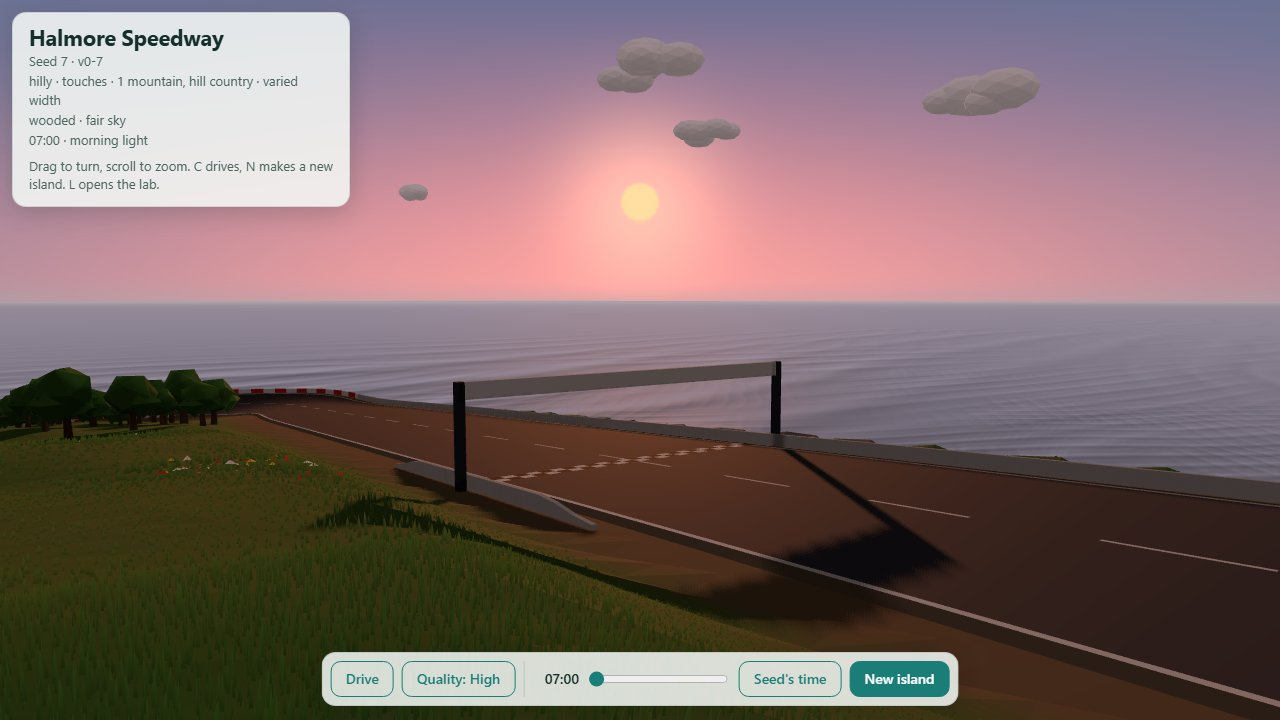
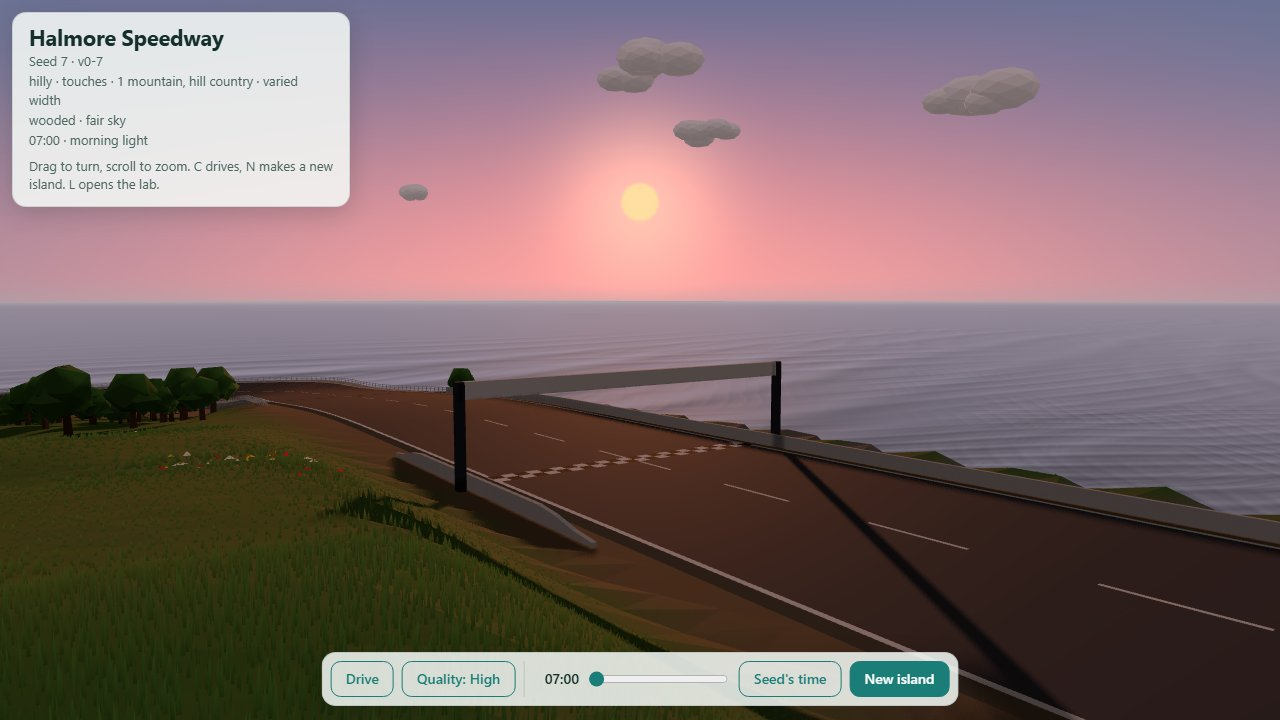
M6.1e: bridges driven over at top speed; look=bridge; the visual bar's pictures again
A test drives four bridges (seed 19's inlet, seed 9's wooden river bridge, seed 1's hill river
and seed 7's long lap bridge) at up to 53 m/s: all four wheels on the road at every step from
30 m before to 30 m after, and the body's up-and-down jolt under 1 g. look=bridge opens on the
crossing's bridge, or the lap's longest. The browser suite's close views take it too. Every
visual bar picture taken again, with a crossing of each kind added and a Crossings row; seed 7's
drive pictures kept, since its new lap's slide leaves the road. Bridge views of seeds 1 to 20
looked at. That ends M6.1.

diff --git a/src/sim/bridgeDrive.test.ts b/src/sim/bridgeDrive.test.ts
@@ -1,0 +1,103 @@
+import { beforeAll, describe, expect, it } from 'vitest';
+import { config } from '../config';
+import { generateWorld } from '../gen';
+import type { BridgeSpan, WorldResult } from '../gen/types';
+import { BRAKE_SHARE, cornerLimit, reachFor, stickToward } from './bot/lineDriver';
+import { makeInput } from './input';
+import { loadRapier, type Rapier } from './physics/rapier';
+import { createSimOn } from './sim';
+import { poseBehind } from './start';
+
+/**
+ * M6.1e (the milestone's "done when"): a car driven over a bridge at top speed keeps four wheels down and meets no
+ * bump at either end. Seed 19's concrete bridge over its inlet, seed 9's wooden one over its river, seed 1's over its
+ * hill river, each on straight or gently curved road, and seed 7's long bridge of the lap's own (M6.1a).
+ */
+const BRIDGES: { seed: number; what: string; least: number }[] = [
+  { seed: 19, what: 'the inlet', least: 0.95 },
+  { seed: 9, what: 'the river, wooden', least: 0.95 },
+  { seed: 1, what: 'the hill river', least: 0.95 },
+  { seed: 7, what: 'the lap’s long bridge', least: 0.9 },
+];
+/** Metres either side of a bridge watched too: its ends and the road leading on and off. */
+const AROUND = 30;
+/** The car starts this far back, enough to reach top speed where the road allows. */
+const RUN_UP = 700;
+
+let rapier: Rapier;
+const worlds = new Map<number, WorldResult>();
+beforeAll(async () => {
+  rapier = await loadRapier();
+  for (const { seed } of BRIDGES) worlds.set(seed, generateWorld(seed, config));
+}, 120_000);
+
+/** The bridge to drive over: the crossing's, or with none the lap's longest. */
+function bridgeOf(world: WorldResult): BridgeSpan {
+  const n = world.track.candidates[world.track.winnerIndex]!.line.count;
+  const { spans } = world.road.bridges;
+  const crossing = world.crossing;
+  if (crossing) return spans.find((s) => (crossing.sample - s.startIndex + n) % n < s.sampleCount)!;
+  return spans.reduce((a, b) => (b.sampleCount > a.sampleCount ? b : a));
+}
+
+interface Crossed {
+  /** Speed as the car reached the watched stretch, in metres per second. */
+  entry: number;
+  /** Steps on the watched stretch, and those with a wheel off the road. */
+  steps: number;
+  lifted: number;
+  /** The largest change of the body's upward speed in one step, as an acceleration, in metres per second squared. */
+  jolt: number;
+}
+
+/**
+ * Drives along the centre line from `RUN_UP` metres before a bridge, the throttle down and braking only for corners
+ * it could not take (`cornerLimit`), and watches it from `AROUND` metres before the bridge to as far after.
+ */
+function driveOver(world: WorldResult, span: BridgeSpan): Crossed {
+  const car = config.car;
+  const reach = reachFor(car, 120);
+  const { line } = world.track.candidates[world.track.winnerIndex]!;
+  const n = line.count;
+  const around = Math.round(AROUND / line.spacing);
+  const from = (span.startIndex - around + n) % n;
+  const length = span.sampleCount - 1 + 2 * around;
+  const watched = (i: number): boolean => (i - from + n) % n <= length;
+  const start = (span.startIndex - Math.round(RUN_UP / line.spacing) + 10 * n) % n;
+  const sim = createSimOn(rapier, { kind: 'island', world }, config, poseBehind(world, config, start, 0));
+  const result: Crossed = { entry: 0, steps: 0, lifted: 0, jolt: 0 };
+  let upward = 0;
+  for (let step = 0; step < 60 * config.sim.stepsPerSecond; step++) {
+    const state = sim.state();
+    const near = state.progress!.near;
+    const speed = Math.hypot(state.velocity.x, state.velocity.y, state.velocity.z);
+    const limit = cornerLimit(line, near, reach, car);
+    const ahead = (near + Math.max(8, Math.round((speed * 0.5) / line.spacing))) % n;
+    sim.step(makeInput({ throttle: speed < limit ? 1 : 0, brake: speed > limit + 1 ? BRAKE_SHARE : 0, steer: stickToward(state, { x: line.x[ahead]!, z: line.z[ahead]! }, car) }));
+    const after = sim.state();
+    const jolt = Math.abs(after.velocity.y - upward) * config.sim.stepsPerSecond;
+    upward = after.velocity.y;
+    if (watched(after.progress!.near)) {
+      if (result.steps === 0) result.entry = speed;
+      result.steps++;
+      if (!after.wheels.every((wheel) => wheel.touching)) result.lifted++;
+      result.jolt = Math.max(result.jolt, jolt);
+    } else if (result.steps > 0) break;
+  }
+  sim.free();
+  return result;
+}
+
+describe('driving over a bridge at top speed (M6.1e)', () => {
+  it.each(BRIDGES)('seed $seed, over $what: at top speed, four wheels down from 30 m before to 30 m after, and no bump at either end', ({ seed, least }) => {
+    const world = worlds.get(seed)!;
+    const span = bridgeOf(world);
+    const crossed = driveOver(world, span);
+    // Over the whole bridge and its ends: at a step a second, at least its length.
+    expect(crossed.steps, `seed ${seed}: steps on the bridge`).toBeGreaterThan(((span.sampleCount - 1) * 2) / config.car.engine.topSpeed * config.sim.stepsPerSecond);
+    expect(crossed.entry, `seed ${seed}: speed onto the bridge`).toBeGreaterThanOrEqual(least * config.car.engine.topSpeed);
+    expect(crossed.lifted, `seed ${seed}: steps with a wheel off the road`).toBe(0);
+    // No more than 1 g up or down at any step: the road's own crests and dips stay well under it.
+    expect(crossed.jolt, `seed ${seed}: the largest jolt`).toBeLessThan(9.81);
+  });
+});

diff --git a/src/camera/spots.test.ts b/src/camera/spots.test.ts
@@ -4,7 +4,7 @@ import { config } from '../config';
 import { analyseSections } from '../gen/track/analysis';
 import { stadiumLine } from '../testing/trackFixtures';
 import { orbitEye, type Orbit } from './orbit';
-import { lookAtCar, lookAtPoint, lookAtRoad, lookAtSpot, lookAtTrack, ROAD_SPOT_NAMES, SPOT_NAMES, TRACK_SPOT_NAMES } from './spots';
+import { lookAtBridge, lookAtCar, lookAtPoint, lookAtRoad, lookAtSpot, lookAtTrack, ROAD_SPOT_NAMES, SPOT_NAMES, TRACK_SPOT_NAMES } from './spots';
 
 const spot = (x: number, z: number, sample = 0) => ({ x, z, value: 1, sample });
 const report: FitReport = {
@@ -244,5 +244,39 @@ describe('lookAtCar', () => {
     expect(back).toBeGreaterThan(0);
     expect(Math.abs(side)).toBeGreaterThan(1);
     expect(Math.atan2(Math.abs(side), back)).toBeCloseTo(view.side, 6);
+  });
+});
+
+describe('lookAtBridge (look=bridge, M6.1e)', () => {
+  const line = stadiumLine(400, 20);
+  const n = line.count;
+  const spans = [
+    { startIndex: 10, sampleCount: 30 },
+    { startIndex: 200, sampleCount: 60 },
+  ];
+  const middleOf = (span: { startIndex: number; sampleCount: number }) => (span.startIndex + Math.floor(span.sampleCount / 2)) % n;
+
+  it('aims at the middle of the crossing’s bridge, at the ground there', () => {
+    const orbit = lookAtBridge('bridge', line, spans, 25, heightAt)!;
+    expect(orbit.targetX).toBeCloseTo(line.x[middleOf(spans[0]!)]!, 6);
+    expect(orbit.targetZ).toBeCloseTo(line.z[middleOf(spans[0]!)]!, 6);
+    expect(orbit.targetY).toBe(12);
+  });
+
+  it('aims at the lap’s longest bridge when there is no crossing', () => {
+    const orbit = lookAtBridge('bridge', line, spans, null, heightAt)!;
+    expect(orbit.targetX).toBeCloseTo(line.x[middleOf(spans[1]!)]!, 6);
+    expect(orbit.targetZ).toBeCloseTo(line.z[middleOf(spans[1]!)]!, 6);
+  });
+
+  it('finds a bridge across the start of the lap', () => {
+    const across = [{ startIndex: n - 10, sampleCount: 30 }];
+    const orbit = lookAtBridge('bridge', line, across, 5, heightAt)!;
+    expect(orbit.targetX).toBeCloseTo(line.x[middleOf(across[0]!)]!, 6);
+  });
+
+  it('has nothing to look at with no bridge, or for another name', () => {
+    expect(lookAtBridge('bridge', line, [], null, heightAt)).toBeNull();
+    expect(lookAtBridge('hairpin', line, spans, 25, heightAt)).toBeNull();
   });
 });

diff --git a/src/app/worldPage.ts b/src/app/worldPage.ts
@@ -3,7 +3,7 @@ import { chaseStart, type ChaseView } from '../camera/chase';
 import { createFlyPath, type FlyPath } from '../camera/flyAlong';
 import { dragOrbit, orbitEye, zoomOrbit, type Orbit } from '../camera/orbit';
 import { clearOrbit, titleOrbit } from '../camera/orbitFit';
-import { lookAtCar, lookAtPoint, lookAtRoad, lookAtSpot, lookAtTrack } from '../camera/spots';
+import { lookAtBridge, lookAtCar, lookAtPoint, lookAtRoad, lookAtSpot, lookAtTrack } from '../camera/spots';
 import { config, GENERATOR_VERSION } from '../config';
 import { formatSeedCode, MAX_SEED, parseSeedInput, seedInputProblem } from '../core/seedCode';
 import type { CloudCover, FitReport, WoodsKind, WorldResult } from '../gen';
@@ -212,7 +212,7 @@ const NEXT_VIEW: Record<CameraMode, string> = { chase: 'Drive', fly: 'Fly the la
  * Address options: `seed=42`; `cam=fly` to open flying the lap and `cam=orbit` to open circling (the car stays
  * where it is until the driving view is back); `lap=0.5` to open flying, half way round the lap; `still=1` to open
  * paused, with the car held at its start; `look=cut` (or fill, bank,
- * close, water, hairpin, start, summit, climb, sun, car) or `at=x,z` for a close view of one place;
+ * close, water, hairpin, start, summit, climb, sun, car, or bridge: the crossing's bridge or the lap's longest) or `at=x,z` for a close view of one place;
  * `time=17:45` to open at that time of day instead of the seed's own (held to daylight);
  * `decor=off` to leave out the trees, rocks and clouds; `grass=off` to leave out the grass blades;
  * `water=off` to leave out the surface of the sea; `fps=1` to open with the frame times showing (the F key shows and hides them);
@@ -1034,6 +1034,7 @@ export function mountWorldPage(root: HTMLElement): ViewHandle {
         (opening
           ? (lookAtSpot(look, result.report, groundAt) ??
             lookAtTrack(look, winner.line, winner.sections, groundAt) ??
+            lookAtBridge(look, winner.line, result.road.bridges.spans, result.crossing?.sample ?? null, groundAt) ??
             lookAtRoad(look, winner.line, winner.profile.height, result.mountains, groundAt) ??
             (look === 'sun' ? lookAtSun(winner.line.x[0]!, winner.line.z[0]!, winner.profile.height[0]!) : null) ??
             (look === 'car' ? lookAtCar(startPose(result, config)) : null))

diff --git a/src/camera/spots.ts b/src/camera/spots.ts
@@ -1,5 +1,5 @@
 import { config } from '../config';
-import type { CenterLine, FitReport, FitSpot, MountainSummit, Section } from '../gen/types';
+import type { BridgeSpan, CenterLine, FitReport, FitSpot, MountainSummit, Section } from '../gen/types';
 import { orbitEye, type Orbit } from './orbit';
 import { rotate, type Quat, type Vec3 } from '../sim/quat';
 
@@ -56,6 +56,26 @@ export function lookAtTrack(
   }
   if (!tightest) return null;
   const middle = (tightest.startIndex + Math.floor(tightest.sampleCount / 2)) % line.count;
+  return closeView(line.x[middle]!, line.z[middle]!, heightAt, view);
+}
+
+/**
+ * A close camera at a bridge (`look=bridge`, M6.1e): the middle of the crossing's bridge, the one over the sample
+ * `crossing`, or with no crossing the lap's longest. Returns null for any other name, or a lap with no bridge.
+ */
+export function lookAtBridge(
+  name: string,
+  line: CenterLine,
+  spans: readonly BridgeSpan[],
+  crossing: number | null,
+  heightAt: (x: number, z: number) => number,
+  view = config.camera.spot,
+): Orbit | null {
+  if (name !== 'bridge' || spans.length === 0) return null;
+  const n = line.count;
+  const over = crossing === null ? undefined : spans.find((span) => (crossing - span.startIndex + n) % n < span.sampleCount);
+  const span = over ?? spans.reduce((a, b) => (b.sampleCount > a.sampleCount ? b : a));
+  const middle = (span.startIndex + Math.floor(span.sampleCount / 2)) % n;
   return closeView(line.x[middle]!, line.z[middle]!, heightAt, view);
 }
 

diff --git a/e2e/world.spec.ts b/e2e/world.spec.ts
@@ -797,7 +797,7 @@ test.describe('3D screenshots', () => {
   const seeds = process.env.SEEDS ? process.env.SEEDS.split(',').map(Number) : [1, 7, 42, 100, 2024, 48213];
 
   /** Which close views to take as well as the overview. Override with LOOKS, for example: $env:LOOKS = "cut,water" */
-  const looks = process.env.LOOKS ? process.env.LOOKS.split(',') : ['cut', 'fill', 'bank', 'water', 'hairpin', 'start', 'summit', 'climb', 'car'];
+  const looks = process.env.LOOKS ? process.env.LOOKS.split(',') : ['cut', 'fill', 'bank', 'water', 'hairpin', 'start', 'summit', 'climb', 'bridge', 'car'];
 
   /** Points of the lap to photograph from the flying camera, as fractions. Override with LAPS, for example: $env:LAPS = "0.1,0.6" */
   const laps = process.env.LAPS ? process.env.LAPS.split(',') : ['0.02', '0.3', '0.55', '0.8'];

diff --git a/docs/STATE.md b/docs/STATE.md
@@ -8,8 +8,8 @@ The step-by-step record of Milestones 1 and 2 (plans, measurements, check-ins an
 
 - **Current milestone:** **Milestone 6, Polish** ([issue #6](https://github.com/TechnologicTEC/Random-Racing/issues/6)), planned and approved by Tane on 2026-11-25 (below). Milestones 1 to 5 are merged and signed off (PR #7, #9, #10, #11, #12; Milestone 5 signed off by Tane 2026-11-25)
 - **Branch:** `milestone-6-polish`, made from `main` at 009260e. `main` is protected by a GitHub ruleset (no force pushes, no deletion, pull request required); one branch and pull request per milestone, merged after Tane signs off
-- **Last finished part:** M6.1d-3, the river high in the hills holds still water (2026-11-26). That ends M6.1d
-- **Next:** **M6.1e**, driven over at top speed (four wheels down, no bump at either end); `look=bridge` opening on the crossing's bridge when there is one; the 20-seed screenshots, three bridges and one crossing of each kind looked at; the visual bar's seed 7 pictures taken again. Then M6.2 (tunnels). M6.1c and M6.1d were planned in plan mode and approved by Tane on 2026-11-26 (below)
+- **Last finished part:** M6.1e, driven over at top speed; `look=bridge`; the pictures (2026-11-26). That ends M6.1, the bridges
+- **Next:** **M6.2a**, tunnel spans, pure: as M6.1a for cuts deeper than `road.maxCut`; rules in `road.tunnels`; measured over seeds 1 to 200 (`docs/plan/M6-polish.md`). Then M6.2b and M6.2c, and check-in 1 with Tane (drive over the bridges and through the tunnels)
 - **Hand-over, 2026-11-16.** Fable 5.2 built Milestones 1 and 2 and Milestone 3 up to 4c, then planned the rest: `docs/PLAN.md` (every part to release, in order, with its rules, starting values and "done when" tests) and `docs/VISUAL_BAR.md`. Opus 5.5 finished the plan's later sections the same day and builds from here
 
 ## Milestone 6: polish (2026-11-25)
@@ -32,7 +32,7 @@ Planned in plan mode and approved by Tane on 2026-11-25 (plan file: `C:\Users\ta
 | M6.1d-1 | **Choosing a crossing**, pure: about half the seeds, one a lap; sites, the kinds that fit, paths; measured over seeds 1 to 200 | **Done** (below) |
 | M6.1d-2 | The crossing carved into the world: inlet, river to the sea and ravine; the bridge found on the carved ground, up to 250 m | **Done** (below) |
 | M6.1d-3 | The river high in the hills: a still surface in a closed gorge, drawn with the sea's shader; the respawn in it | **Done** (below) |
-| M6.1e | Driven over at top speed (four wheels down, no bump); `look=bridge`; pictures looked at (was M6.1c) | To do |
+| M6.1e | Driven over at top speed (four wheels down, no bump); `look=bridge`; pictures looked at (was M6.1c) | **Done** (below) |
 | M6.2a | Tunnel spans, pure: `road.tunnels`, the earthworks rule skips cut in a span; measured over seeds 1 to 200 | To do |
 | M6.2b | The tunnel in the world: the heightfield cut to the road, the lid and portals as their own mesh and colliders; no grass or trees inside | To do |
 | M6.2c | The chase camera under the lid (tested along every tunnel of seeds 1 to 200); dimmer light inside; `look=tunnel`; pictures | To do |
@@ -49,6 +49,8 @@ Planned in plan mode and approved by Tane on 2026-11-25 (plan file: `C:\Users\ta
 | M6.9 | The version 1 table checked by hand; README; the pull request; **Tane's sign-off**; merge; release | To do |
 
 **Tane after M6.1b (2026-11-25):** "This is looking good. But I wonder if the bridge could look a bit different to the other parts of the track. As although it has the supports and elevated track, on top it looks the same and a player wouldn't really notice the difference. Instead could it maybe look like a wooden bridge or a different colour to the track. I also think we should look into using bridges to cross bits of water. For example we can have the track spanning across a ravine or a river and the bridge can connect the track on either side." Recorded with an outline and the questions in `docs/plan/M6-polish.md` ("Tane after M6.1b"); planned properly in plan mode in a fresh session. M6.1b stays as it is meanwhile: the bridges' shape, ground, railings, pillars and colliders are the base both changes build on.
+
+**M6.1e, done 2026-11-26.** **Driven over at top speed** (`src/sim/bridgeDrive.test.ts`, the milestone's "done when"): a test driver keeps the throttle down and brakes only for corners it could not take (`cornerLimit`), steering along the centre line, from 700 m before a bridge; from 30 m before it to 30 m after it, it watches every step. On seed 19's concrete bridge over its inlet, seed 9's wooden one over its river and seed 1's over its hill river it arrives at 52 to 53 m/s (top speed is 53), and on seed 7's 186 m bridge of the lap's own at 49.8 m/s; on all four **every wheel touches the road at every step**, and the body's up-and-down acceleration stays **under 1 g** at every step (at most 8.6 m/s² on the bridges, against up to 15.7 m/s² on the plain road before them, measured over ten bridges of seeds 1, 6, 7, 9, 11, 14, 19 and 33; the largest jolts come on the road just before or after a bridge, not at its ends). The test guards what the bridges already did, so it passed from the start; to see it can fail, a throwaway run raised the road 15 cm over the first 4 m of seed 19's bridge: the body jolted at 27.5 m/s² and a wheel left the road on 21 steps. (A deck box poking 10 cm above the road did not, since the wheels feel only the road and the body rides higher.) **`look=bridge`** (`lookAtBridge`, `camera/spots.ts`): a close view at the middle of the crossing's bridge, or of the lap's longest with no crossing; none with no bridge (4 tests in `spots.test.ts`, seen failing first). The browser suite's close views now take `bridge` too. **Pictures:** the bridge views of seeds 1 to 20 (with the island from above and flying at 0.3 of the lap, in two batches of 10, all 126 passing) looked at in the session's scratchpad (`seeds-1-20`, contact sheets `sheet-bridge-1-10.png` and `sheet-bridge-11-20.png`): every seed with a bridge opens on it (seed 1's hill river, the ravines of seeds 3, 6, 8, 10, 11, 16 and 17, seed 9's wooden river bridge, seed 19's inlet, seed 12's wooden bridge on a corner, seeds 7, 13 and 14's of the lap's own); seeds with none (2, 4, 5, 15, 18 and 20) open on the start line, as for any close view with nothing to show. **The visual bar:** all 17 pictures taken again (`node scripts/visual-bar-pictures.mjs`), with four new ones of a crossing of each kind at its bridge (`crossing-inlet.jpg` seed 19, `crossing-river.jpg` seed 9, `crossing-ravine.jpg` seed 17, `crossing-hill-river.jpg` seed 42) and a Crossings row in `docs/VISUAL_BAR.md`. Seed 7's lap is M6.1a's: `road-morning-shadows.jpg` is now a walled corner with a cutting in the morning light, with no long tree shadows across the road, and `road-straight-meadow.jpg` (seed 8) a road by the sea; both still show what their rows use them for. **`drive-slide.jpg` and `drive-boost.jpg` were kept as accepted on 2026-11-23**: on seed 7's new lap the browser suite's slide carries the car off the road into the trees, so it is no reference. New places for these three are Tane's call (below, known issues). 2,905 unit tests pass; type check clean; 442 browser tests pass (136 skipped, as usual; 6 more than before, the bridge close views) in 38 minutes, with no failure.
 
 **M6.1d-3, done 2026-11-26.** **A hill river holds still water** in its gorge, at the level `chooseCrossing` gave it (1.5 to 3 m over its floor, at least 3 m under the ground all round). `buildStillWater` (`src/gen/world/stillWater.ts`) gives `WorldResult.stillWater` (null on every other world): its `level`; `wet`, how far the water reaches either side of each point of the crossing's path (across its floor and up its banks at `bankSlope` to the level; 0 where the floor has risen above it); and its `mesh`, flat at the level over every cell of the grid with a corner within a cell of the water, so it runs on under the banks and is hidden there. `inStillWater(water, path, x, z, margin)` says whether a point is in it: within the reach of the path between each point and the next, and round its ends. In `hashWorld` only when there is one. **Drawn** with the sea's shader (`createWater` takes a shape and a level, `StillShape`): its depth is now the surface's level minus the ground's height (`depthAt(grid, x, z, level)` and the shader's `depthAt(world, level)`; the sea's level is 0, so the sea is drawn exactly as before), so its shallows and foam come from the gorge's own floor; its waves move at `render.water.stillWaves` (15%) of the sea's (`uWaves`). `worldView` makes it with each world that has one, and lights, times, shows and hides it with the sea. **The respawn** (`watchCar`, given the island's still water by `sim.ts`) puts a car back for `water` when it is in it `sim.respawn.waterDepth` (0.5 m) under its level, as in the sea; plain sums from the world, the same on every computer, and a world without one steps exactly as before. **Nothing grows in it:** no grass under it or within a cell of it (`withoutGrassUnder`), and no tree or rock within 1 m of it (`outOfStillWater`, after the decor is scattered). **Claude's calls, for Tane to judge:** (1) the still water is its own `WorldResult.stillWater`, beside the crossing, so the crossing stays what was chosen (the plan had `crossing.water.mesh`); (2) its mesh is the grid's cells over the water, not a strip along the path, which would fold over itself in the gorge's tightest bends (about 19 m radius against up to 22 m of water either side); (3) its waves are calmed to 15% of the sea's. Hill rivers are 12 of seeds 1 to 200 (seeds 1, 33, 42, 43, 83, 99, 107, 130, 171, 183, 195 and 196). Tests: 9 in `stillWater.test.ts` (on seeds 1 and 33: at the crossing's level and none on seeds 19, 6 and 7; flat at its level and over every cell of the gorge's floor under it; held in, the ground at least at the level wherever the mesh ends; over a metre deep under the bridge; in the water at every point of the path below the level and half a metre inside its reach, not half a metre outside, 100 samples along the road or out at sea; no tree or rock in it nor grass under it; in the fingerprint; and on a hand-made gorge, the reach round its ends, a margin, and dry where the reach is 0), 2 in `src/sim/crossingWater.test.ts` (`watchCar`: in the water deeper than the sea's rule, not above it, not beside it on lower ground, the sea's rule alone with none; a car dropped into seed 1's hill river beside its bridge is put back for water), 1 in `waterDepth.test.ts` (the depth from a level, the sea's 0 unchanged), 2 in `render/water.test.ts` (the sea a plane at 0 with full waves; the still water in its own shape at its level, its waves calmed), each seen failing first. **Pictures** of seeds 1, 33, 42 and 107 (close views at the bridge and along the gorge, from straight above, flying onto the bridge), in the session's scratchpad (`lake-pictures`): a still turquoise lake filling the winding gorge under the bridge, its piers standing in it, foam along its banks, closed where the floor climbs at its ends; seed 42's runs through a deep gorge under a tall concrete bridge, seed 33's snakes away through the forest. **Tane on the pictures: "yeah it looks fine".** 2,897 unit tests pass; type check clean; 436 browser tests pass (130 skipped, as usual) in 38 minutes, with no failure.
 
@@ -373,6 +375,8 @@ The design notes for Milestones 4, 5 and 6, and their steps, are in `docs/PLAN.m
 
 ## Known issues and risks
 
+- **Three visual bar pictures want new places** (M6.1e, 2026-11-26, Tane's call): on seed 7's new lap (M6.1a) the browser suite's slide carries the car off the road into the trees, so `drive-slide.jpg` and `drive-boost.jpg` are still the accepted pictures of the old lap; `road-morning-shadows.jpg` (seed 7) has no long tree shadows across the road any more; `road-straight-meadow.jpg` (seed 8) is a road by the sea.
+- **Rivers are rare** (M6.1d): 6 of seeds 1 to 200, since one needs 150 m of open infield beside a low seaside road; the river's shortest (`world.crossings.river.length[0]`) is the lever if Tane wants more. Hill rivers are 12, ravines 71, inlets 15.
 - **Seed 100's slide picture ends with the kart in the air on the grass, tipped to one side at 133 km/h** (the boost picture; the same on the commit before 10a-6a): the slide helper's long slide runs off the road with a boost. Worth a look with 10a-6b's hits.
 - **Sweepers are the close corners of the corner proof at 53 m/s**: seed 8's 73 m and seed 18's 90 m save 0.02 s with the slide (10a-4).
 - **A held tightest slide from 53 m/s dips to 35 m/s and surges back to 43** before settling near 41 (drift grip 60; Tane accepted it, 10a-4).

diff --git a/docs/VISUAL_BAR.md b/docs/VISUAL_BAR.md
@@ -25,7 +25,8 @@ What the game looks like, in terms that can be checked, with pictures to lay new
 | **Walls** | Low pale-grey blocks, red and white on the outside of corners, plain elsewhere. A wall's end slopes down to the ground. No gap under a wall | `road-morning-shadows.jpg`, `road-corner-woods.jpg` (a sloping end), `mountain-road.jpg` |
 | **Start gate** | Two dark posts, a pale beam, a chequered line across the road, a short wall each side | `start-gate.jpg`, `sunrise.jpg` |
 | **Lap gates** (M5.4d) | Four a lap, at the middle of a straight or the apex of a corner, square to the road there: built as the start gate (two dark posts outside the barriers, reaching the ground, and a beam over the road), the beam in the cards' teal `#1a7d77`, no paint on the road. They read as gates from 200 m along the road and as small teal marks round the lap from above (Tane, 2026-11-25) | `gates-<seed>-gate1.png`, `-above.png` (`e2e/gates.spec.ts`) |
-| **Bridges** (M6.1b, M6.1c) | Where the road would stand over 6 m above the ground: the road carried on a deck 1.2 m deep, the island's own ground and cover under it, a cutting beside it as on any road. **Its look goes by its size** (Tane, 2026-11-26), so a player sees it is a bridge from the car. The road meets the deck with no blend between them (Tane, M6.1c-3). **Wooden** (at most 100 m long and 12 m up): planks across the road about 1 m wide in two warm browns (`ROAD.plankLight`, `plankDark`) with a thin dark gap after each, **no paint**; timber railings (a post at every 2 m and two rails, `ROAD.timber`); the deck's top, sides and underside in timber; at each row, a timber trestle: two posts, a cap beam under the deck and two braces crossing down to the ground. **Concrete** (the rest): the road keeps the track's own asphalt and lines (Tane, M6.1c-3: a pale deck, a gradual blend and truss girders were tried and turned down); white steel railings (thin posts and two rails, `ROAD.steel`, the wooden railing's style in a colour that matches); the deck a shade darker than the walls (`ROAD.bridge`) on square pillars two a row, rows no more than 25 m apart. A railing runs on past each end of the deck and meets the ordinary wall at a closed end. Flat-shaded, lit and shadowed like the walls | close views `at=` a bridge's middle: wooden on seeds 12, 14 (its first) and 27, concrete on seeds 7, 11, 13 and 14 (its second); `look=bridge` from M6.1e |
+| **Bridges** (M6.1b, M6.1c) | Where the road would stand over 6 m above the ground: the road carried on a deck 1.2 m deep, the island's own ground and cover under it, a cutting beside it as on any road. **Its look goes by its size** (Tane, 2026-11-26), so a player sees it is a bridge from the car. The road meets the deck with no blend between them (Tane, M6.1c-3). **Wooden** (at most 100 m long and 12 m up): planks across the road about 1 m wide in two warm browns (`ROAD.plankLight`, `plankDark`) with a thin dark gap after each, **no paint**; timber railings (a post at every 2 m and two rails, `ROAD.timber`); the deck's top, sides and underside in timber; at each row, a timber trestle: two posts, a cap beam under the deck and two braces crossing down to the ground. **Concrete** (the rest): the road keeps the track's own asphalt and lines (Tane, M6.1c-3: a pale deck, a gradual blend and truss girders were tried and turned down); white steel railings (thin posts and two rails, `ROAD.steel`, the wooden railing's style in a colour that matches); the deck a shade darker than the walls (`ROAD.bridge`) on square pillars two a row, rows no more than 25 m apart. A railing runs on past each end of the deck and meets the ordinary wall at a closed end. Flat-shaded, lit and shadowed like the walls | close views `at=` a bridge's middle: wooden on seeds 12, 14 (its first) and 27, concrete on seeds 7, 11, 13 and 14 (its second); `look=bridge`; `crossing-river.jpg` (wooden), `crossing-inlet.jpg` and `crossing-ravine.jpg` (concrete) |
+| **Crossings** (M6.1d) | About half the islands have one place where the lap crosses water or a ravine on a bridge, square to the road. **An inlet:** the sea runs in under the bridge to a round cove, turquoise shallows and foam along its banks. **A river:** from the sea under the bridge, winding inland and narrowing. Their banks are earth and sand at 40%. **A ravine:** a rock cut 10 to 30 m deep, its walls rough with ledges and outcrops and its floor uneven, winding away from both sides of the bridge like a snake and narrowing to points at its ends (Tane, M6.1d-2: no rectangle cut out of the ground); trees and boulders on its floor and rim. **A hill river:** such a gorge high in the hills holding a still lake at one level, closed at both ends, the sea's turquoise and foam but calm, the piers standing in it; no grass, trees or rocks in the water | `crossing-inlet.jpg`, `crossing-river.jpg`, `crossing-ravine.jpg`, `crossing-hill-river.jpg` |
 | **Grass** | Green that varies lush to dry in broad patches, fine blades near the camera, a short mown strip by the road, dabs of white, yellow and red flowers in places | `road-straight-meadow.jpg`, `start-gate.jpg` |
 | **Trees and rocks** | Broadleaf trees as dark-green faceted lumps on short brown trunks, pines as stacked cones, palms by the beach; in groves and woods, not evenly scattered. Grey faceted boulders on rocky ground. Every tree casts a shadow | `road-corner-woods.jpg`, `road-morning-shadows.jpg`, `hairpin-and-beach.jpg`, `mountain.jpg` (rocks) |
 | **Mountains** | Big rounded or ridged forms, grass low down, grey rock above, with the road climbing across them | `mountain.jpg`, `mountain-road.jpg` |
@@ -55,10 +56,14 @@ Open the address after `http://127.0.0.1:5173/?` with `npm run dev` running. Whe
 | `car-close.jpg` | `seed=42&still=1&look=car` | `world-00042-car.png` |
 | `drive-slide.jpg` (accepted 2026-11-23) | `seed=7&still=1`, then a slide to tier 3 (`slideTo` in `e2e/drifting.ts`) | `world-00007-drive-slide.png` |
 | `drive-boost.jpg` (accepted 2026-11-23) | the same, 10 steps after letting go | `world-00007-drive-boost.png` |
+| `crossing-inlet.jpg` (M6.1e) | `seed=19&still=1&look=bridge` | with `SEEDS=19`: `world-00019-bridge.png` |
+| `crossing-river.jpg` (M6.1e) | `seed=9&still=1&look=bridge` | with `SEEDS=9`: `world-00009-bridge.png` |
+| `crossing-ravine.jpg` (M6.1e) | `seed=17&still=1&look=bridge` | with `SEEDS=17`: `world-00017-bridge.png` |
+| `crossing-hill-river.jpg` (M6.1e) | `seed=42&still=1&look=bridge` | `world-00042-bridge.png` |
 
 The page opens driving since step 5e; `cam=fly` keeps these addresses on the flying camera, and the car is not drawn in them. The generator is `v0`: if a later change moves a seed's world, take the picture again and say so here.
 
-**All 13 were taken again on 2026-11-17 (6h-3)**, when the road became 20 m wide and every island changed. Since then seed 8's "straight meadow" begins a corner, and seed 42's start is level, by the sea, with its gate's posts out of the chase camera's view. To take them again: `node scripts/visual-bar-pictures.mjs` with `npm run dev` running (or name some: `node scripts/visual-bar-pictures.mjs shore.jpg,mountain.jpg`).
+**All 13 were taken again on 2026-11-17 (6h-3)**, when the road became 20 m wide and every island changed. Since then seed 8's "straight meadow" begins a corner, and seed 42's start is level, by the sea, with its gate's posts out of the chase camera's view. To take them again: `node scripts/visual-bar-pictures.mjs` with `npm run dev` running (or name some: `node scripts/visual-bar-pictures.mjs shore.jpg,mountain.jpg`). **All 17 were taken again on 2026-11-26 (M6.1e)**, after the bridges (M6.1a to c) and the crossings (M6.1d) moved seeds 7, 1, 8 and 42, and the four crossing pictures added. Seed 7's lap is M6.1a's: `road-morning-shadows.jpg` is now a walled corner with a cutting in the morning light, with no long tree shadows across the road; `road-straight-meadow.jpg` (seed 8) is a road by the sea. Both still show what their rows use them for; choosing new places for them is Tane's call. **`drive-slide.jpg` and `drive-boost.jpg` were kept as accepted on 2026-11-23**: on seed 7's new lap the browser suite's slide (`world-00007-drive-slide.png`) now carries the car off the road into the trees, so it is no reference; a new place for them is Tane's call.
 
 ## The car, sparks and flame
 

diff --git a/CLAUDE.md b/CLAUDE.md
@@ -35,5 +35,5 @@ Run from the repo folder in PowerShell.
 - Screenshots land in `test-results/screens/`. To choose what is captured: `$env:SEEDS = "5,6,7"; $env:SHEETS = "1,21"; npm run e2e` (clear them afterwards with `Remove-Item Env:SEEDS, Env:SHEETS`). `LOOKS` (close views, for example `"cut,water"`), `LAPS` (points of the lap, `"0.1,0.6"`), `TIMES` (`"07:00,19:30"`) and `CANDIDATE` (one lab candidate) choose more. Screenshots only: `npx playwright test --project=chromium -g "screenshots"`.
 - Every Playwright run empties `test-results/`, so copy `test-results/screens/` elsewhere before the next run. Take long screenshot runs in batches of about 10 seeds (13 3D pictures a seed).
 - Milestone 2 was checked on seeds 1 to 20 and 20 fresh seeds (`src/testing/checkSeeds.ts`); `src/gen/seeds1to20.test.ts` and `src/gen/freshSeeds.test.ts` keep them clean.
-- 3D addresses: `/` (random island), `/?seed=48213` (one seed). The page opens on the title card over the circling island: up and down choose, Enter picks (Race, Free drive, Favourites or New island; a controller's D-pad, A and B), Esc pauses and goes back. The Favourites card adds the island shown, races a favourite (Enter), removes one (its ✕, X or Delete); the pause and results cards have "☆ Favourite". On the title a seed or share code typed in the box (`v0-48213`) opens that island, or says why it cannot (`seedInputProblem`); the time slider writes `time=` into the address. `mode=race` races at once and `mode=free` drives at once with no clock; `bot=off` leaves out the bot's ghost (the M5 tests use it); an address with `cam=`, `lap=`, `look=` or `at=` drives freely too. Driving: W/S/A/D or the arrows drive, Space or Shift held while steering drifts (0.6, 1.2 and 1.8 s charge the three boosts), R puts the car back at the last checkpoint passed (after a missed lap gate, before that gate), G shows or hides the ghost in a race (X on a controller), C goes driving, flying the lap, circling the island (free driving only; in a race it does nothing), T opens the tuning panel, N makes a new island (it comes in on the title card). `cam=fly` and `lap=0.3` open flying, `cam=orbit` circling, `look=car` a close view of the car; `still=1` holds the car and the waves. All options are listed in `src/app/worldPage.ts`. L switches to the lab on the same seed and back. In the console, `seedCircuit.drive.run(300, { throttle: 1 })` drives 300 steps at once, `seedCircuit.drive.replay(list)` steps through packed inputs, and `seedCircuit.drive.state().respawn` shows the respawn. Ghosts and favourites (M5): `seedCircuit.store` (`getGhost('v0-7')`, the bot's as `'bot2:v0-7'`, `putGhost`, `listFavourites`, `putFavourite`, `removeFavourite`; bytes as lists of numbers), `seedCircuit.ghost` (`status()`, `shown()`, `driver()`, `visible()`), `seedCircuit.replayHashFor(bytes)` (a packed ghost replayed in a fresh simulation: its last fingerprint) and `seedCircuit.botRaceFor(seed)`.
+- 3D addresses: `/` (random island), `/?seed=48213` (one seed). The page opens on the title card over the circling island: up and down choose, Enter picks (Race, Free drive, Favourites or New island; a controller's D-pad, A and B), Esc pauses and goes back. The Favourites card adds the island shown, races a favourite (Enter), removes one (its ✕, X or Delete); the pause and results cards have "☆ Favourite". On the title a seed or share code typed in the box (`v0-48213`) opens that island, or says why it cannot (`seedInputProblem`); the time slider writes `time=` into the address. `mode=race` races at once and `mode=free` drives at once with no clock; `bot=off` leaves out the bot's ghost (the M5 tests use it); an address with `cam=`, `lap=`, `look=` or `at=` drives freely too. Driving: W/S/A/D or the arrows drive, Space or Shift held while steering drifts (0.6, 1.2 and 1.8 s charge the three boosts), R puts the car back at the last checkpoint passed (after a missed lap gate, before that gate), G shows or hides the ghost in a race (X on a controller), C goes driving, flying the lap, circling the island (free driving only; in a race it does nothing), T opens the tuning panel, N makes a new island (it comes in on the title card). `cam=fly` and `lap=0.3` open flying, `cam=orbit` circling, `look=car` a close view of the car, `look=bridge` the crossing's bridge (or the lap's longest); `still=1` holds the car and the waves. All options are listed in `src/app/worldPage.ts`. L switches to the lab on the same seed and back. In the console, `seedCircuit.drive.run(300, { throttle: 1 })` drives 300 steps at once, `seedCircuit.drive.replay(list)` steps through packed inputs, and `seedCircuit.drive.state().respawn` shows the respawn. Ghosts and favourites (M5): `seedCircuit.store` (`getGhost('v0-7')`, the bot's as `'bot2:v0-7'`, `putGhost`, `listFavourites`, `putFavourite`, `removeFavourite`; bytes as lists of numbers), `seedCircuit.ghost` (`status()`, `shown()`, `driver()`, `visible()`), `seedCircuit.replayHashFor(bytes)` (a packed ghost replayed in a fresh simulation: its last fingerprint) and `seedCircuit.botRaceFor(seed)`.
 - Lab addresses: `/?lab=1&seed=48213` (one seed), `/?sheet=20&from=1` (contact sheet), `/?seeds=5,99` (chosen seeds), `&candidate=7` (one candidate), `&minRadius=30` or `&gapWidths=4` (what-if rules; these three open the lab even without `lab=1`).

diff --git a/docs/plan/M6-polish.md b/docs/plan/M6-polish.md
@@ -30,7 +30,7 @@ Each part ends with passing tests and one commit (`docs/PLAN.md`, "The routine f
 | **M6.1d-1** | Choosing a crossing, pure (`gen/world/crossing.ts`, `chooseCrossing`, its own stream `world`/`crossing`): `world.crossings.chance` tuned to about half of seeds 1 to 200; sites at least 150 m from the line and 60 m from a lap gate, straight or gently curved (radius 200 m and more), clear of other bridges unless joined within 250 m; the kinds that fit (inlet and river: the sea beside the road outside, the road at most 14 m up; ravine: the road at least 12 m up; hill river: at least 25 m up), picked with equal weights; the path (inlet: out to the open sea and in 40 to 120 m to a cove, 30 to 80 m wide; river: in 150 to 350 m, winding, its bed 1.5 to 2.5 m under the sea; ravine: 60 to 200 m each way, 10 to 30 m below the road; hill river: a ravine holding water), stopping 25 m short of any other stretch of road. Measured over seeds 1 to 200: the share with a crossing and each kind. **Done 2026-11-26:** `chance` 0.83 gives 103 of seeds 1 to 200 a crossing; the kind is drawn once for the lap (Claude's call; the numbers and the other calls in `docs/STATE.md`) |
 | **M6.1d-2** | The crossing carved into the world (inlet, river, ravine): `carveCrossing` lowers `inland` and `natural` (a floor and banks at `bankSlope`); the bridges found again on the carved ground, a site whose span passes 250 m refused; `WorldResult.crossing` and the spans in the world fingerprint (the track's unchanged); the fit report and the coast's 10 m minimum allow water under a bridge; pinned world fingerprints and per-seed tests updated where crossings land. Tests per kind: water under the bridge joined to the open sea, the ravine's depth, railings, no tree or rock in the water, a car dropped into an inlet put back for water. **Done 2026-11-26:** after Tane saw the first pictures, a ravine (and a gorge) runs 150 to 320 m each way, winding like a snake, narrowing to its ends, its walls and floor rough; 104 of seeds 1 to 200 have a crossing in the world; the lap's own bridges are kept and the crossing's joined to them; a hill river is its dry gorge until M6.1d-3 (`docs/STATE.md`) |
 | **M6.1d-3** | The river high in the hills: a still surface at one `level` in a gorge closed at both ends (Claude's call), `crossing.water: { level, mesh }`, drawn with the sea's shader taking depth as the surface's height minus the ground's (the sea's unchanged); `respawn.ts` puts a car back for water inside it below `level - waterDepth`. **Done 2026-11-26:** as `WorldResult.stillWater`, its mesh the grid's cells over the water, its waves calmed; no grass, trees or rocks in it (`docs/STATE.md`) |
-| **M6.1e** | (Was M6.1c.) A simulation test over a bridge at top speed (four wheels down, no bump at either end); a `look=bridge` close view; the 20-seed screenshots and three bridges looked at; the visual bar's seed 7 pictures taken again |
+| **M6.1e** | (Was M6.1c.) A simulation test over a bridge at top speed (four wheels down, no bump at either end); a `look=bridge` close view; the 20-seed screenshots and three bridges looked at; the visual bar's seed 7 pictures taken again. **Done 2026-11-26:** four bridges driven over at up to 53 m/s, four wheels down and under 1 g; every visual bar picture taken again, four of crossings added; seed 7's drive pictures kept (`docs/STATE.md`) |
 | **M6.2a** | Tunnel spans, pure: as M6.1a for cuts deeper than `road.maxCut`; rules in `road.tunnels`; measured over seeds 1 to 200 |
 | **M6.2b** | The tunnel in the world: the heightfield stays cut to the road (the ground is one height at each point; the wheels and the body need it); the lid is its own mesh covering the cutting with the hillside's shape, with portals; walls, lid and portals collide; no grass or trees inside |
 | **M6.2c** | The chase camera's clearance takes the lid as a ceiling (a unit test along every tunnel of seeds 1 to 200); dimmer light inside, drawing only; a `look=tunnel` view; pictures |

diff --git a/docs/PLAN.md b/docs/PLAN.md
@@ -114,7 +114,7 @@ Written 2026-11-16 by the model that built Milestones 1 and 2 and Milestone 3 up
   - [x] **M6.1d-1** Choosing a crossing, pure: sites, kinds, paths; measured over seeds 1 to 200 (2026-11-26)
   - [x] **M6.1d-2** The crossing carved into the world: inlet, river and ravine, the bridge found on the carved ground (2026-11-26)
   - [x] **M6.1d-3** The river high in the hills: its own water surface; the respawn in it (2026-11-26)
-  - [ ] **M6.1e** Driven over at top speed; `look=bridge`; pictures (was M6.1c)
+  - [x] **M6.1e** Driven over at top speed; `look=bridge`; pictures (was M6.1c) (2026-11-26)
 - **M6.2** Tunnels:
   - [ ] **M6.2a** Tunnel spans, pure; the earthworks rule skips cut in a span; measured over seeds 1 to 200
   - [ ] **M6.2b** The tunnel in the world: the lid and portals, their colliders; no grass or trees inside
